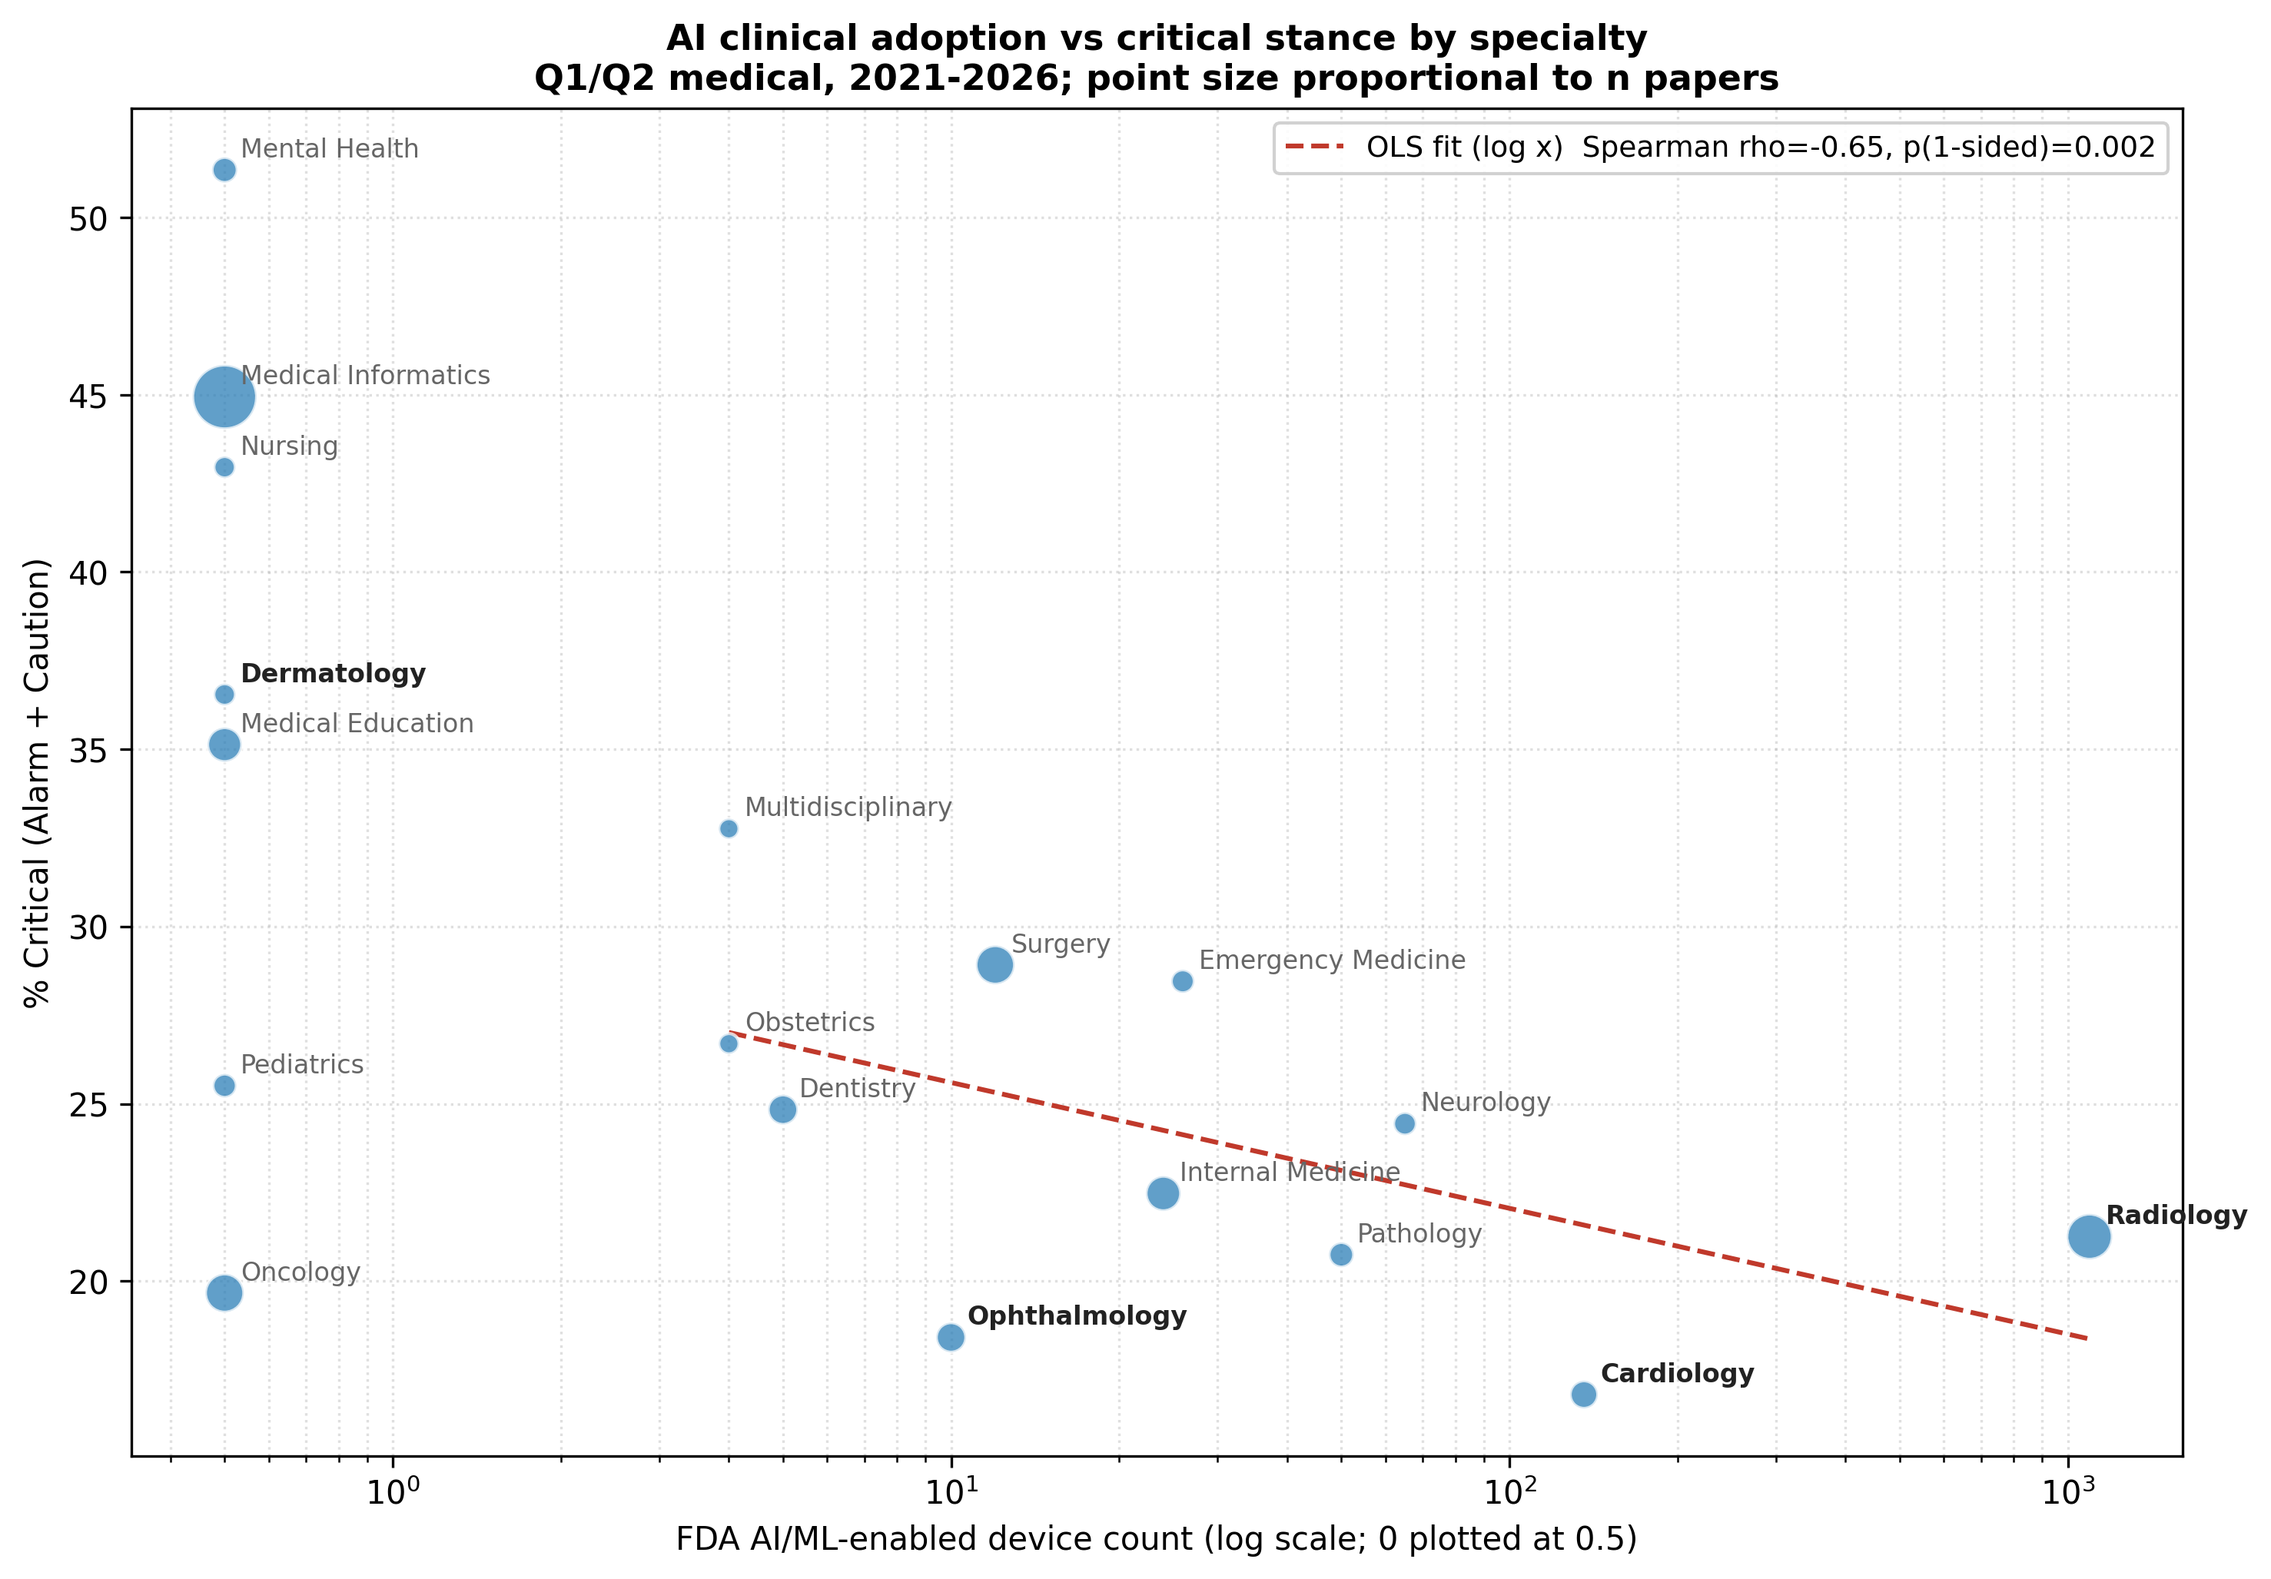
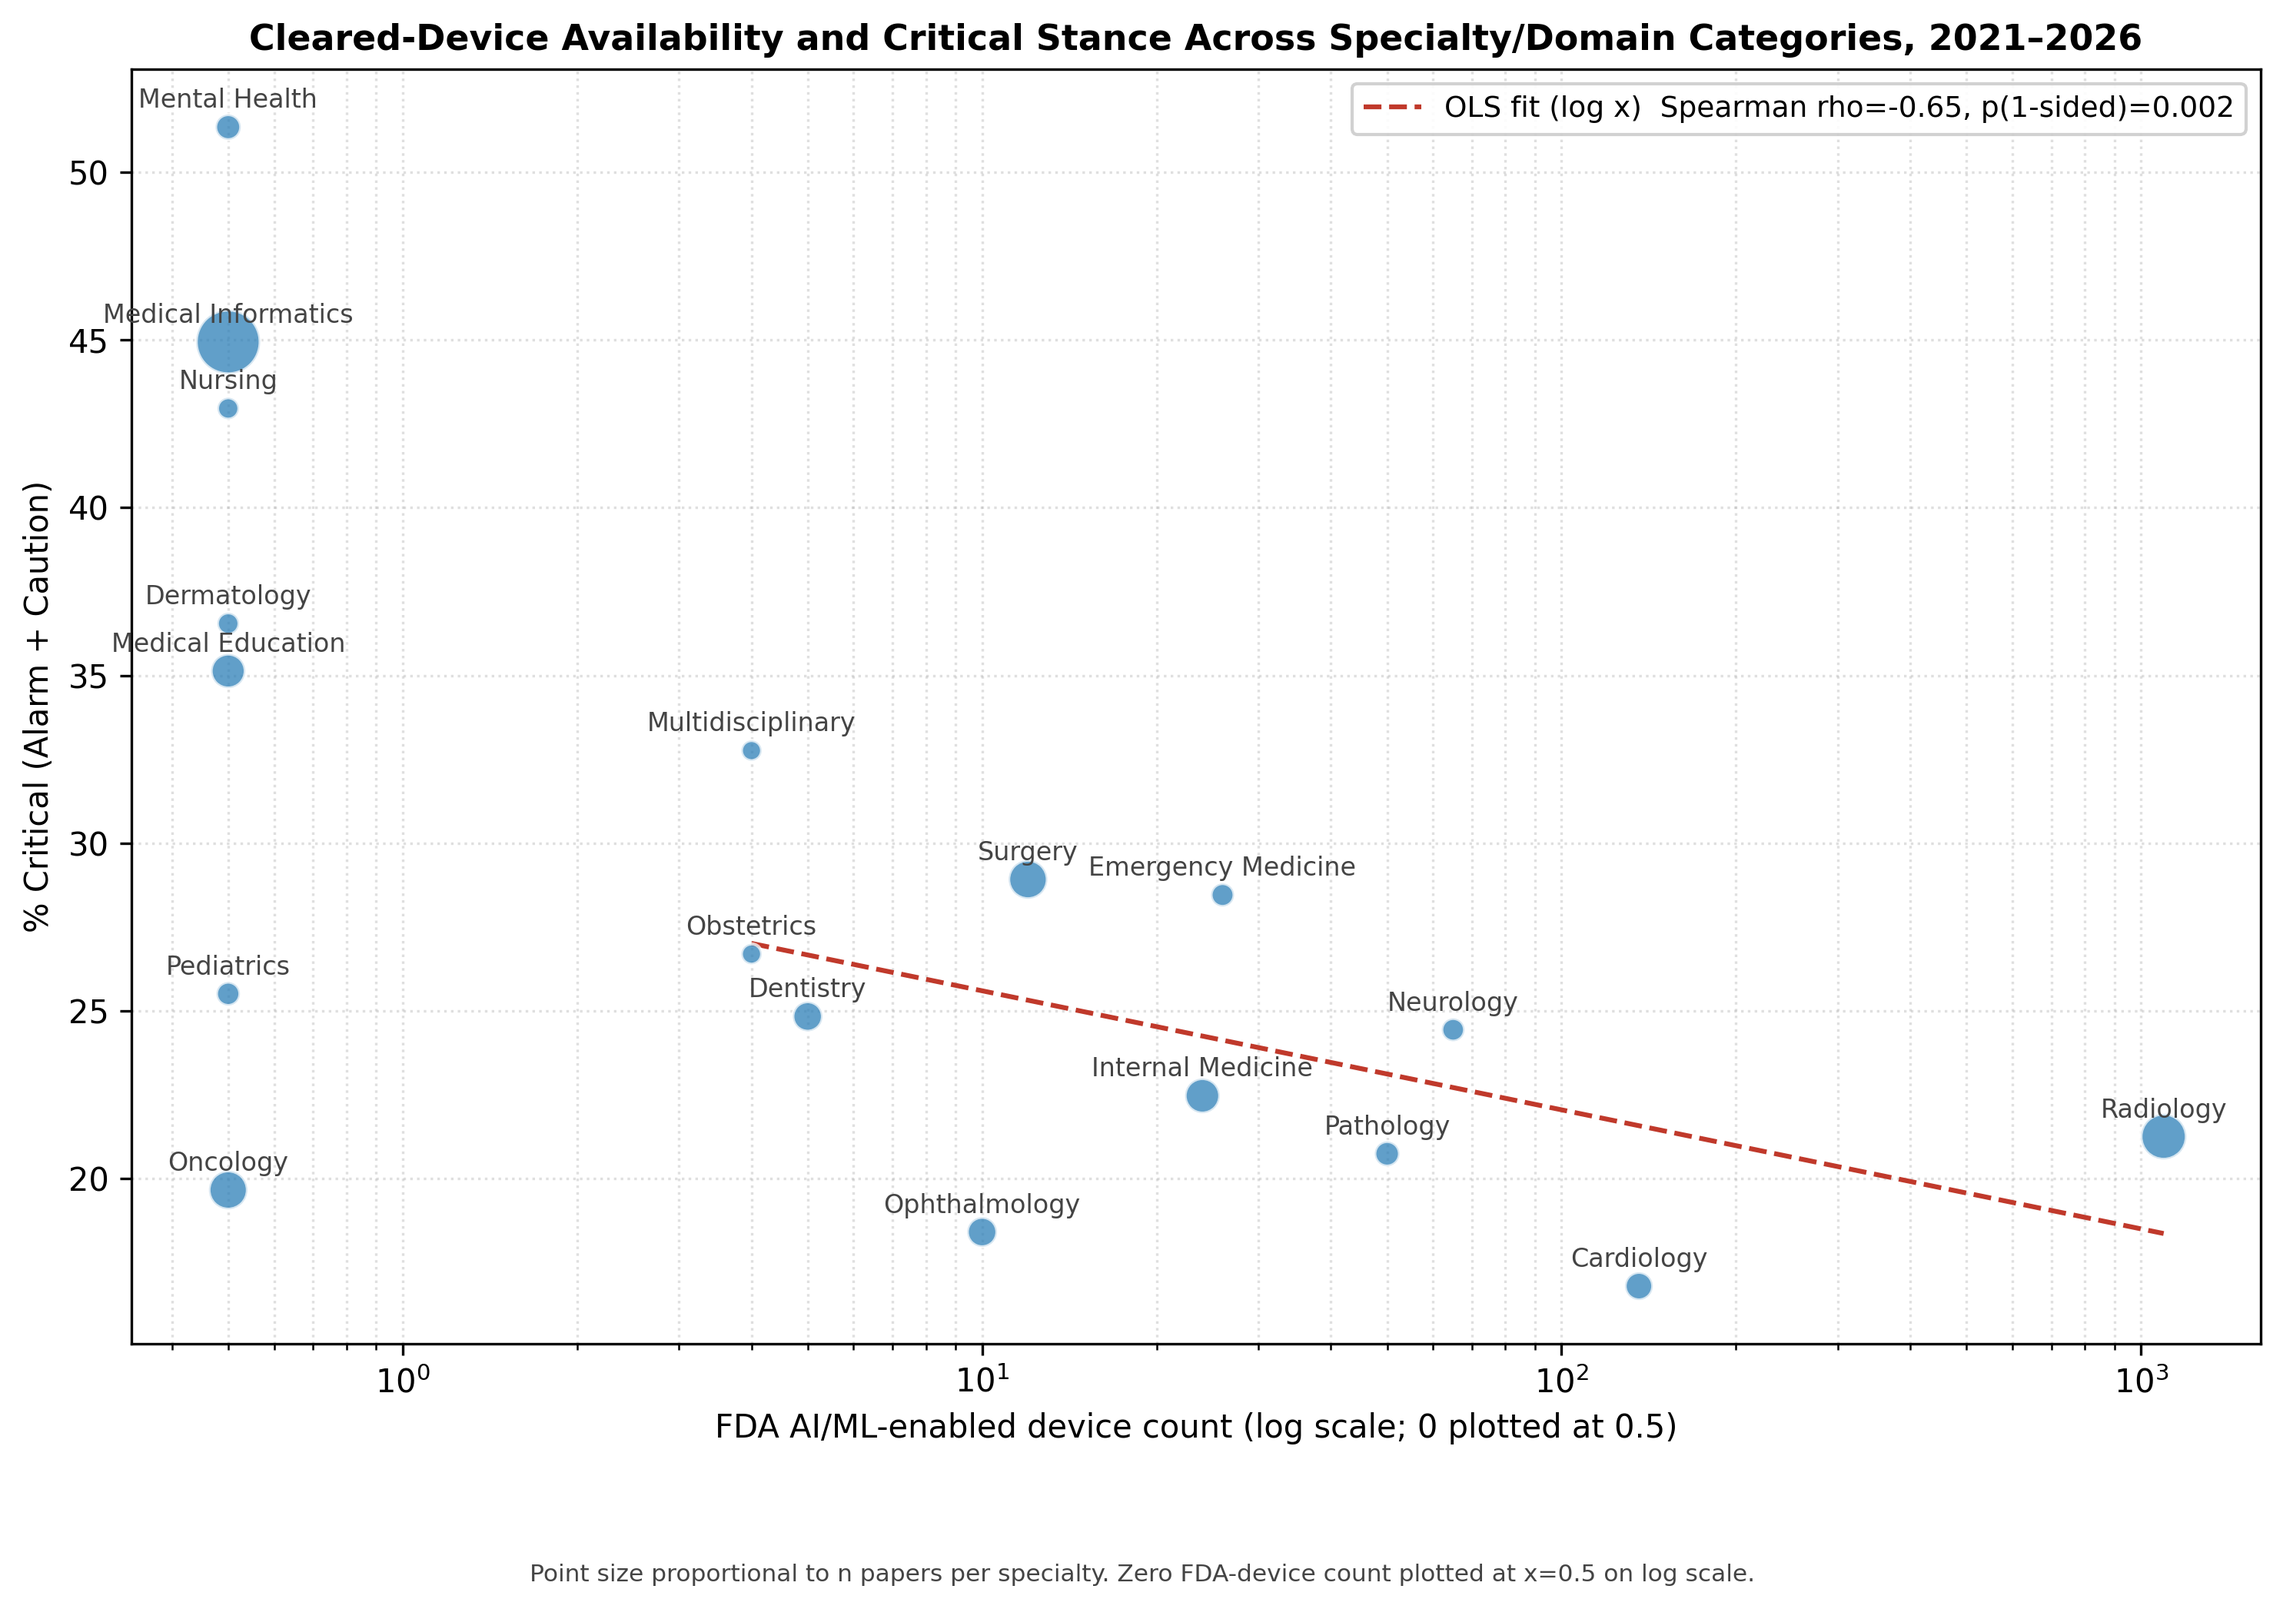
Rename specialty_aiadoption_vs_critical title to "Cleared-Device Availability"
Replaces "Clinical AI Adoption" — FDA device clearance is a proxy for
availability, not confirmed clinical adoption.

diff --git a/analysis/run_specialty_aiadoption.py b/analysis/run_specialty_aiadoption.py
@@ -432,23 +432,17 @@ def make_figure(keep, counts, boot, fda_counts, rep_a) -> None:
     fig, ax = plt.subplots(figsize=(10, 7))
     ax.scatter(x_plot, y, s=sizes, color="#2C7FB8", alpha=0.75, edgecolor="white", zorder=3)
 
-    annotate = {
-        "Dermatology",
-        "Radiology / Diagnostic Imaging",
-        "Ophthalmology",
-        "Cardiology",
-    }
     for s, xp, yp in zip(keep, x_plot, y):
         label = s.split(" / ")[0]
-        weight = "bold" if s in annotate else "normal"
         ax.annotate(
             label,
             (xp, yp),
-            xytext=(5, 4),
+            xytext=(0, 6),
             textcoords="offset points",
             fontsize=8,
-            fontweight=weight,
-            color="#222" if s in annotate else "#666",
+            fontweight="normal",
+            color="#444",
+            ha="center",
         )
 
     # rank/regression line in log space over the mapped (non-zero) points.
@@ -466,12 +460,17 @@ def make_figure(keep, counts, boot, fda_counts, rep_a) -> None:
     ax.set_xlabel("FDA AI/ML-enabled device count (log scale; 0 plotted at 0.5)", fontsize=10)
     ax.set_ylabel("% Critical (Alarm + Caution)", fontsize=10)
     ax.set_title(
-        "AI clinical adoption vs critical stance by specialty\n"
-        "Q1/Q2 medical, 2021-2026; point size proportional to n papers",
+        "Cleared-Device Availability and Critical Stance Across Specialty/Domain Categories, 2021–2026",
         fontsize=11, fontweight="bold",
     )
     ax.grid(True, which="both", ls=":", alpha=0.4)
-    fig.tight_layout()
+    fig.tight_layout(rect=[0, 0.07, 1, 1])
+    fig.text(
+        0.5, 0.01,
+        "Point size proportional to n papers per specialty. "
+        "Zero FDA-device count plotted at x=0.5 on log scale.",
+        ha="center", va="bottom", fontsize=7.5, color="#444444",
+    )
     out_fig = FIGURES_DIR / "specialty_aiadoption_vs_critical.png"
     fig.savefig(out_fig, dpi=300, bbox_inches="tight", facecolor="white")
     plt.close(fig)
